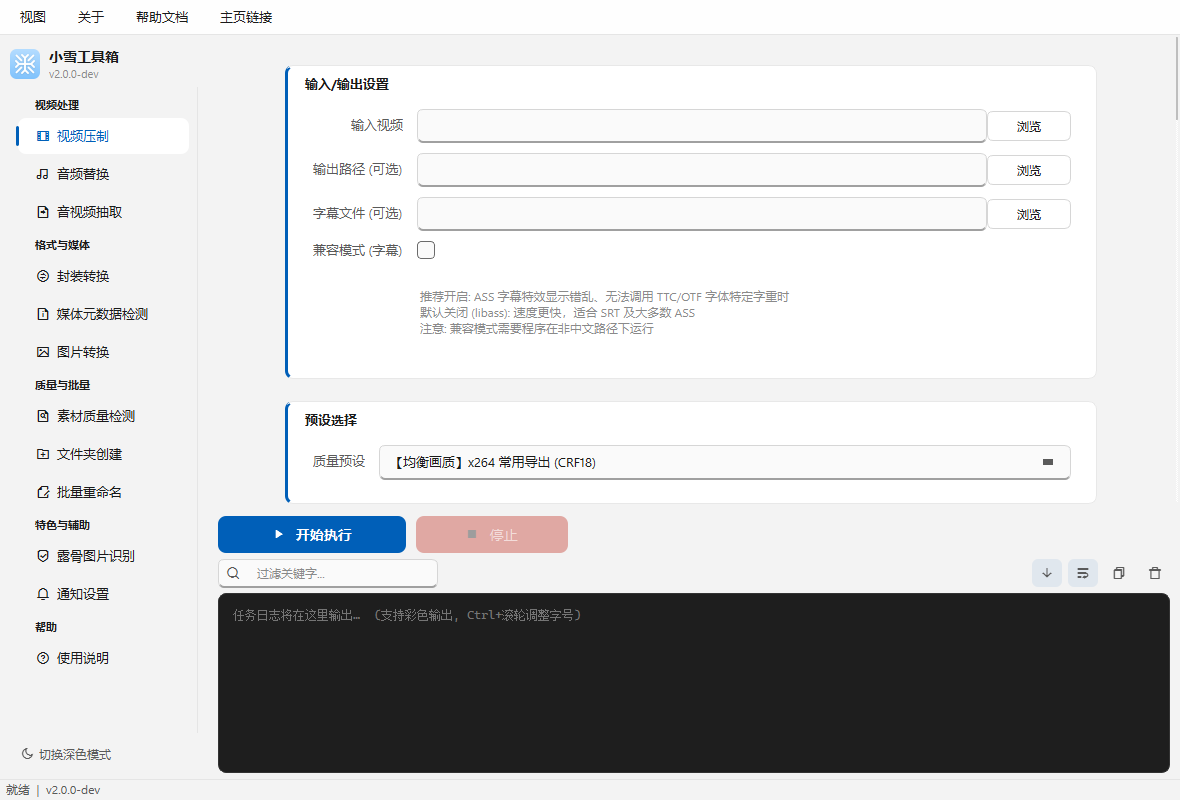
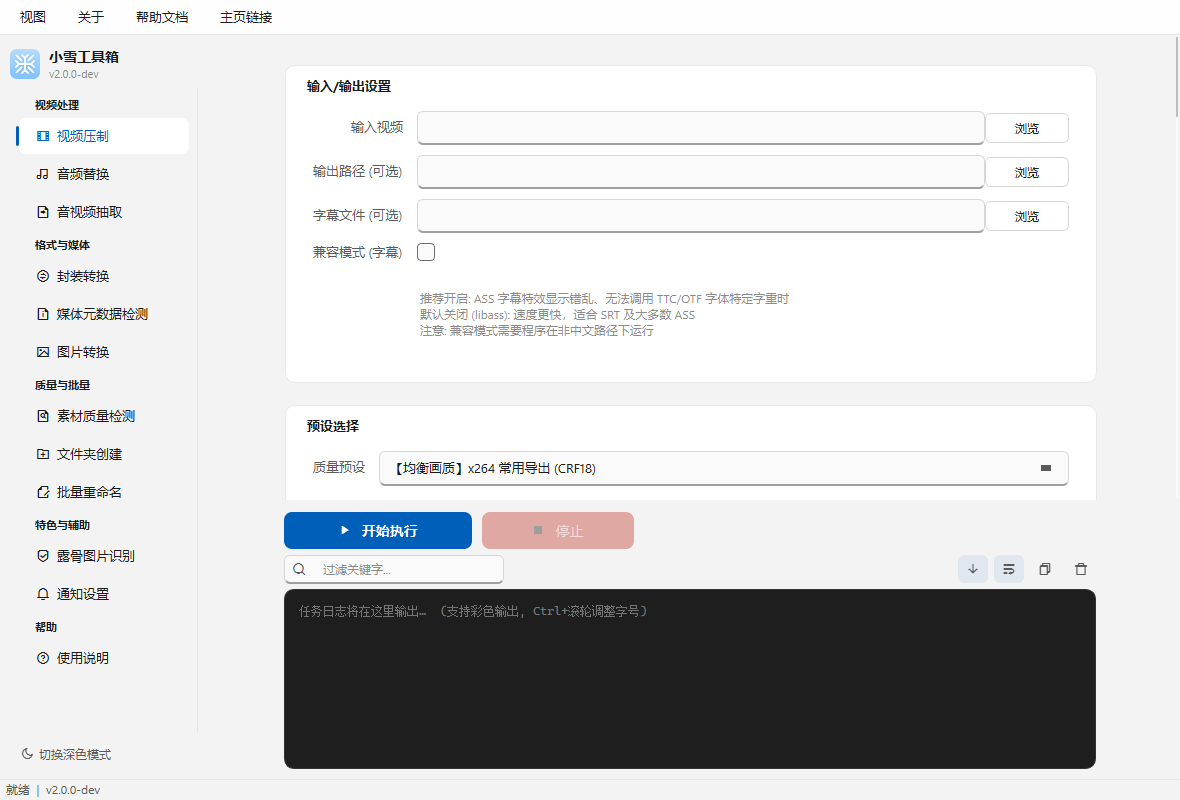
feat(ui): 卡片边框高级化 + 底部区与页面内容列像素级对齐
- 卡片去掉 3px 蓝色左条, 改统一 1px 细描边 + 10px 圆角 (WinUI 风格)
- 日志终端圆角同步 10px
- 底部按钮区/仪表盘/日志区移入限宽居中列 (_CenteredColumnWidget),
  列宽 = min(860, 可用宽度), 与页面卡片边缘像素级对齐 (误差 ≤1px)
- 页面滚动条常驻 (6px 细轨), 底部容器预留同宽, 居中基准一致
- 卡片内边距 36/18/16, 标题定位同步

diff --git a/src/ui/main_window.py b/src/ui/main_window.py
@@ -15,6 +15,7 @@ from ..gui_config import get_icon_path
 
 from . import theme
 from . import icons
+from .base_tab import CONTENT_MAX_WIDTH
 from .sidebar import Sidebar
 from .log_panel import LogPanel
 from .task_runner import TaskRunner
@@ -44,6 +45,43 @@ _AUTO_NOTIFY_COMMANDS = {
 }
 
 _REPO_URL = "https://github.com/xueayi/XiaoXue-Video-Tools"
+
+
+class _CenteredColumnWidget(QWidget):
+    """宽度上限受限的内容列容器: 列宽 = min(max_width, 可用宽度), 水平居中。
+
+    用于让底部按钮区/仪表盘/日志区与上方页面内容列保持同宽对齐。
+    """
+
+    def __init__(self, max_width: int, margins, spacing: int, parent=None):
+        super().__init__(parent)
+        self._max_width = max_width
+
+        outer = QHBoxLayout(self)
+        # 右侧预留 8px (与页面滚动区常驻滚动条同宽), 居中基准一致
+        outer.setContentsMargins(0, 0, 8, 0)
+        outer.setSpacing(0)
+
+        self._column = QWidget()
+        self._column_layout = QVBoxLayout(self._column)
+        self._column_layout.setContentsMargins(*margins)
+        self._column_layout.setSpacing(spacing)
+
+        outer.addStretch(1)
+        outer.addWidget(self._column)
+        outer.addStretch(1)
+
+    def column(self) -> QWidget:
+        return self._column
+
+    def column_layout(self) -> QVBoxLayout:
+        return self._column_layout
+
+    def resizeEvent(self, event):
+        super().resizeEvent(event)
+        # 列宽确定性计算, 两侧 stretch 均分剩余空间实现居中
+        available = max(self.width() - 8, 100)
+        self._column.setFixedWidth(min(self._max_width, available))
 
 
 def _tab_defs(shield_available: bool, notify_config):
@@ -184,11 +222,10 @@ class MainWindow(QMainWindow):
         self._stack = AnimatedStackedWidget()
         right_splitter.addWidget(self._stack)
 
-        # 底部：按钮行 + 仪表盘 + 日志
-        bottom = QWidget()
-        bottom_layout = QVBoxLayout(bottom)
-        bottom_layout.setContentsMargins(10, 6, 10, 6)
-        bottom_layout.setSpacing(6)
+        # 底部：按钮行 + 仪表盘 + 日志 (与页面内容列同宽居中)
+        bottom = _CenteredColumnWidget(
+            CONTENT_MAX_WIDTH, (24, 6, 24, 10), 6)
+        bottom_layout = bottom.column_layout()
 
         # 按钮行
         btn_row = QHBoxLayout()

diff --git a/src/ui/theme.py b/src/ui/theme.py
@@ -41,7 +41,6 @@ _LIGHT = dict(
     card_bg="#ffffff",
     card_border="#e8e8e8",
     card_title="#1a1a1a",
-    accent_bar="#005fb8",
     # 侧边栏
     sidebar_item_text="#1a1a1a",
     sidebar_item_bg_selected="#ffffff",
@@ -135,7 +134,6 @@ _DARK = dict(
     card_bg="#2b2b2b",
     card_border="#383838",
     card_title="#f5f5f5",
-    accent_bar="#4cc2ff",
     sidebar_item_text="#e8e8e8",
     sidebar_item_bg_selected="rgba(255, 255, 255, 0.055)",
     sidebar_item_text_selected="#4cc2ff",
@@ -350,24 +348,23 @@ QPushButton#sidebar_footer_btn:hover {
 }
 
 /* ================================================================
-   分组框  —— 卡片式 (左侧强调色条, 标题内嵌)
+   分组框  —— 卡片式 (统一细描边, 无装饰条, 标题内嵌)
    ================================================================ */
 QGroupBox {
     font-weight: 600;
     font-size: 13px;
     border: 1px solid $card_border;
-    border-left: 3px solid $accent_bar;
-    border-radius: 8px;
+    border-radius: 10px;
     margin-top: 10px;
-    padding: 34px 16px 14px 16px;
+    padding: 36px 18px 16px 18px;
     background-color: $card_bg;
     color: $text_primary;
 }
 QGroupBox::title {
     subcontrol-origin: border;
     subcontrol-position: top left;
-    left: 14px;
-    top: 10px;
+    left: 16px;
+    top: 12px;
     padding: 0 4px;
     color: $card_title;
 }
@@ -598,7 +595,7 @@ QTextEdit#log_panel {
     background-color: $log_bg;
     color: $log_text;
     border: 1px solid $log_border;
-    border-radius: 8px;
+    border-radius: 10px;
     font-family: $mono_family;
     font-size: 12px;
     padding: 10px;

diff --git a/src/ui/base_tab.py b/src/ui/base_tab.py
@@ -97,6 +97,9 @@ class BaseTab(QScrollArea):
         self.command_name = command_name
         self.setWidgetResizable(True)
         self.setFrameShape(QScrollArea.Shape.NoFrame)
+        # 常驻滚动条: 视口宽度不随内容增减变化, 保证页面内容列
+        # 与主窗口底部内容列 (预留同样 8px) 像素级对齐
+        self.setVerticalScrollBarPolicy(Qt.ScrollBarPolicy.ScrollBarAlwaysOn)
 
         self._container = QWidget()
         self._container.setMaximumWidth(CONTENT_MAX_WIDTH)

diff --git a/CHANGELOG.md b/CHANGELOG.md
@@ -29,6 +29,11 @@
 - 移除整页透明度切换动画 (复杂页面 Windows 上易掉帧), 改纯位移滑入
 - 新增「减少动画」开关; Ctrl+Return 快捷执行
 
+### 视觉升级 (第二轮)
+- 卡片去蓝色左条, 统一 10px 圆角细描边 (WinUI 卡片风格), 标题内嵌
+- 底部按钮区/进度仪表盘/日志区与页面内容列同宽居中 (像素级对齐)
+- 页面滚动条常驻细轨, 视口宽度稳定以支撑对齐
+
 ### 打包与依赖
 - 新增依赖: qtawesome (图标库)
 - PyInstaller spec 打入 qtawesome 字体数据与 image 品牌资源
